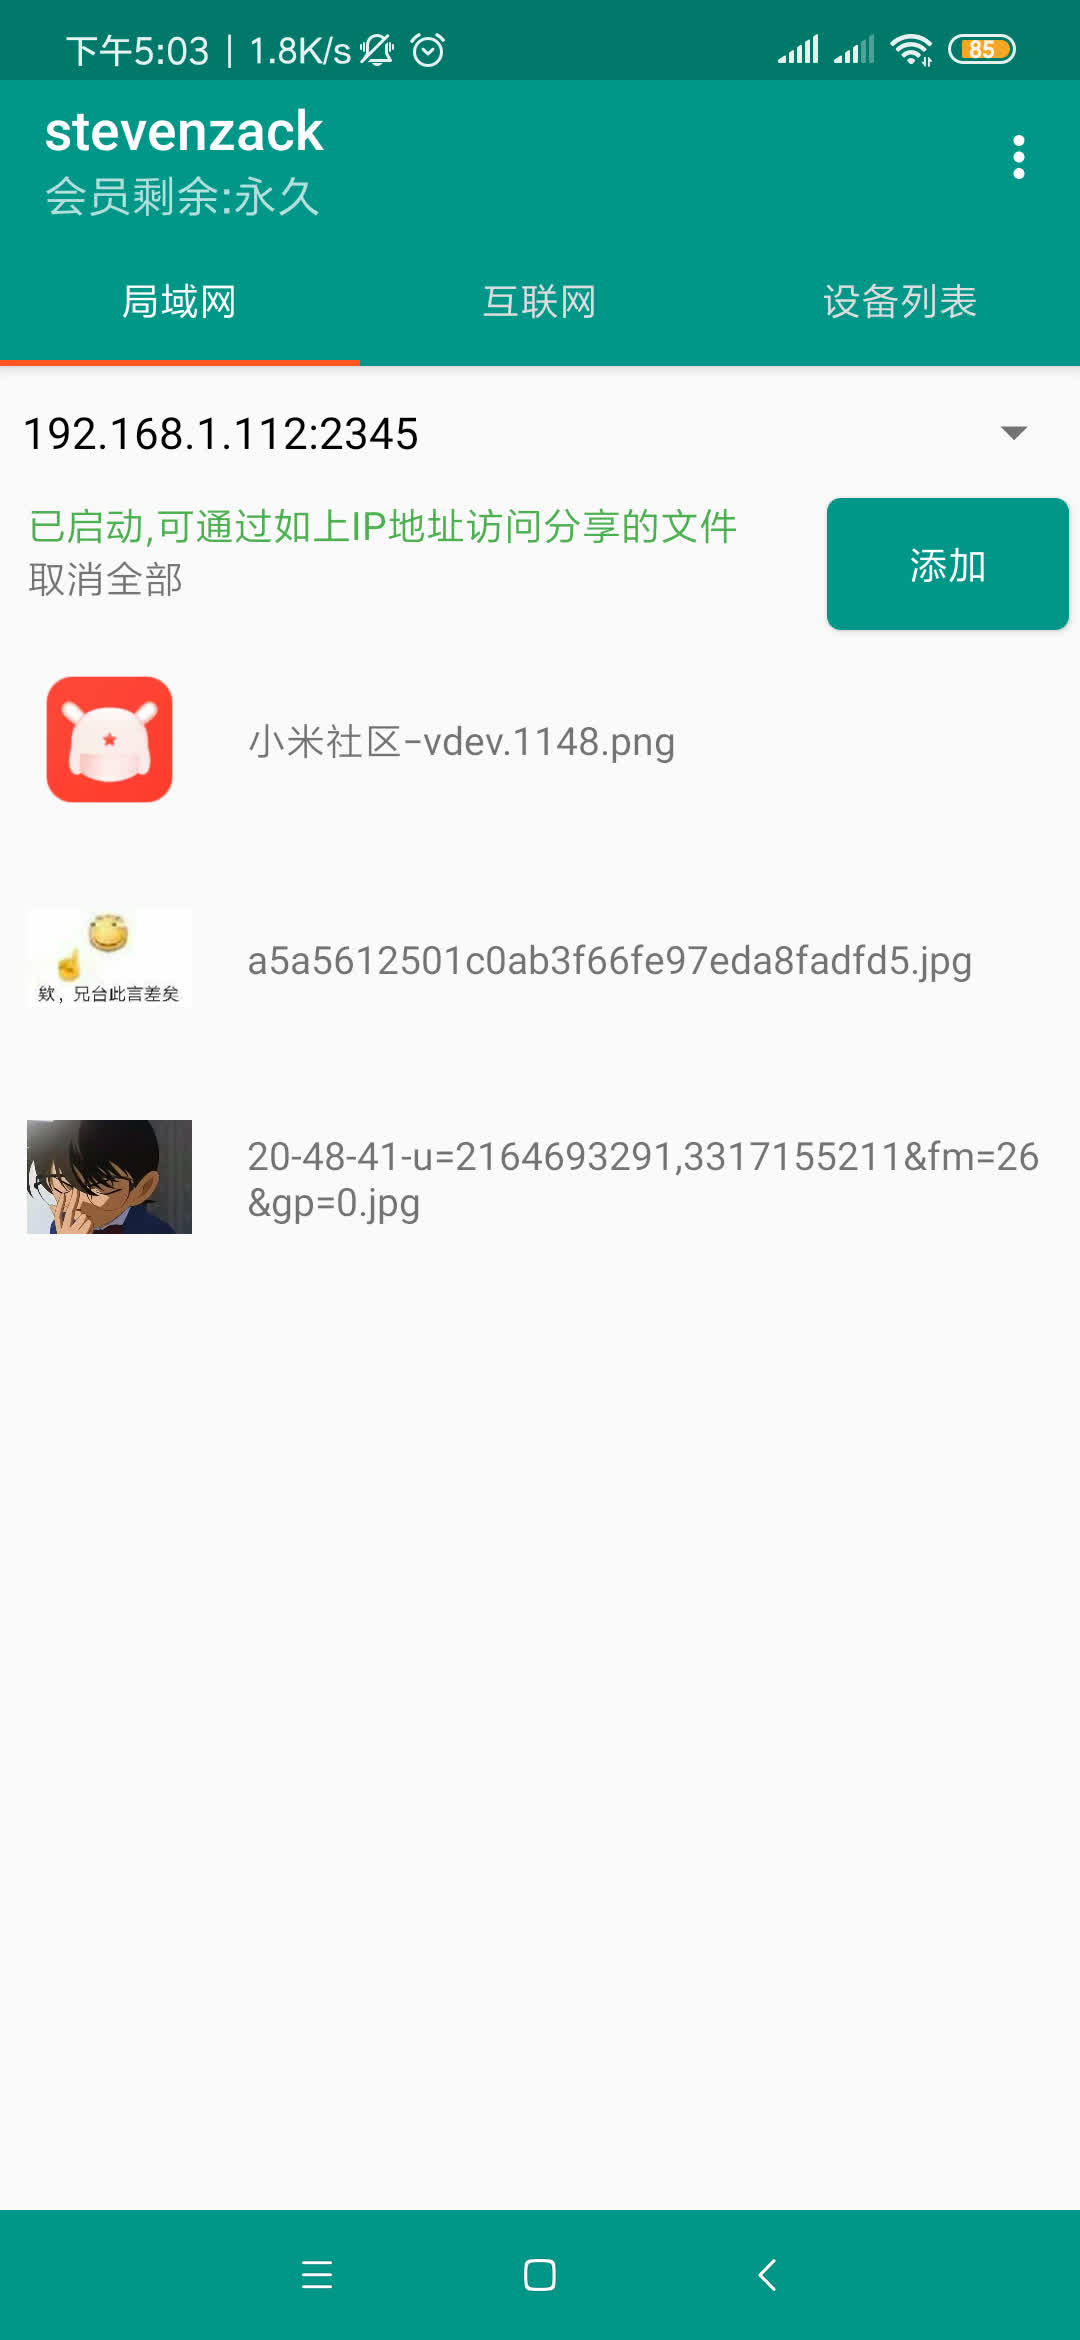
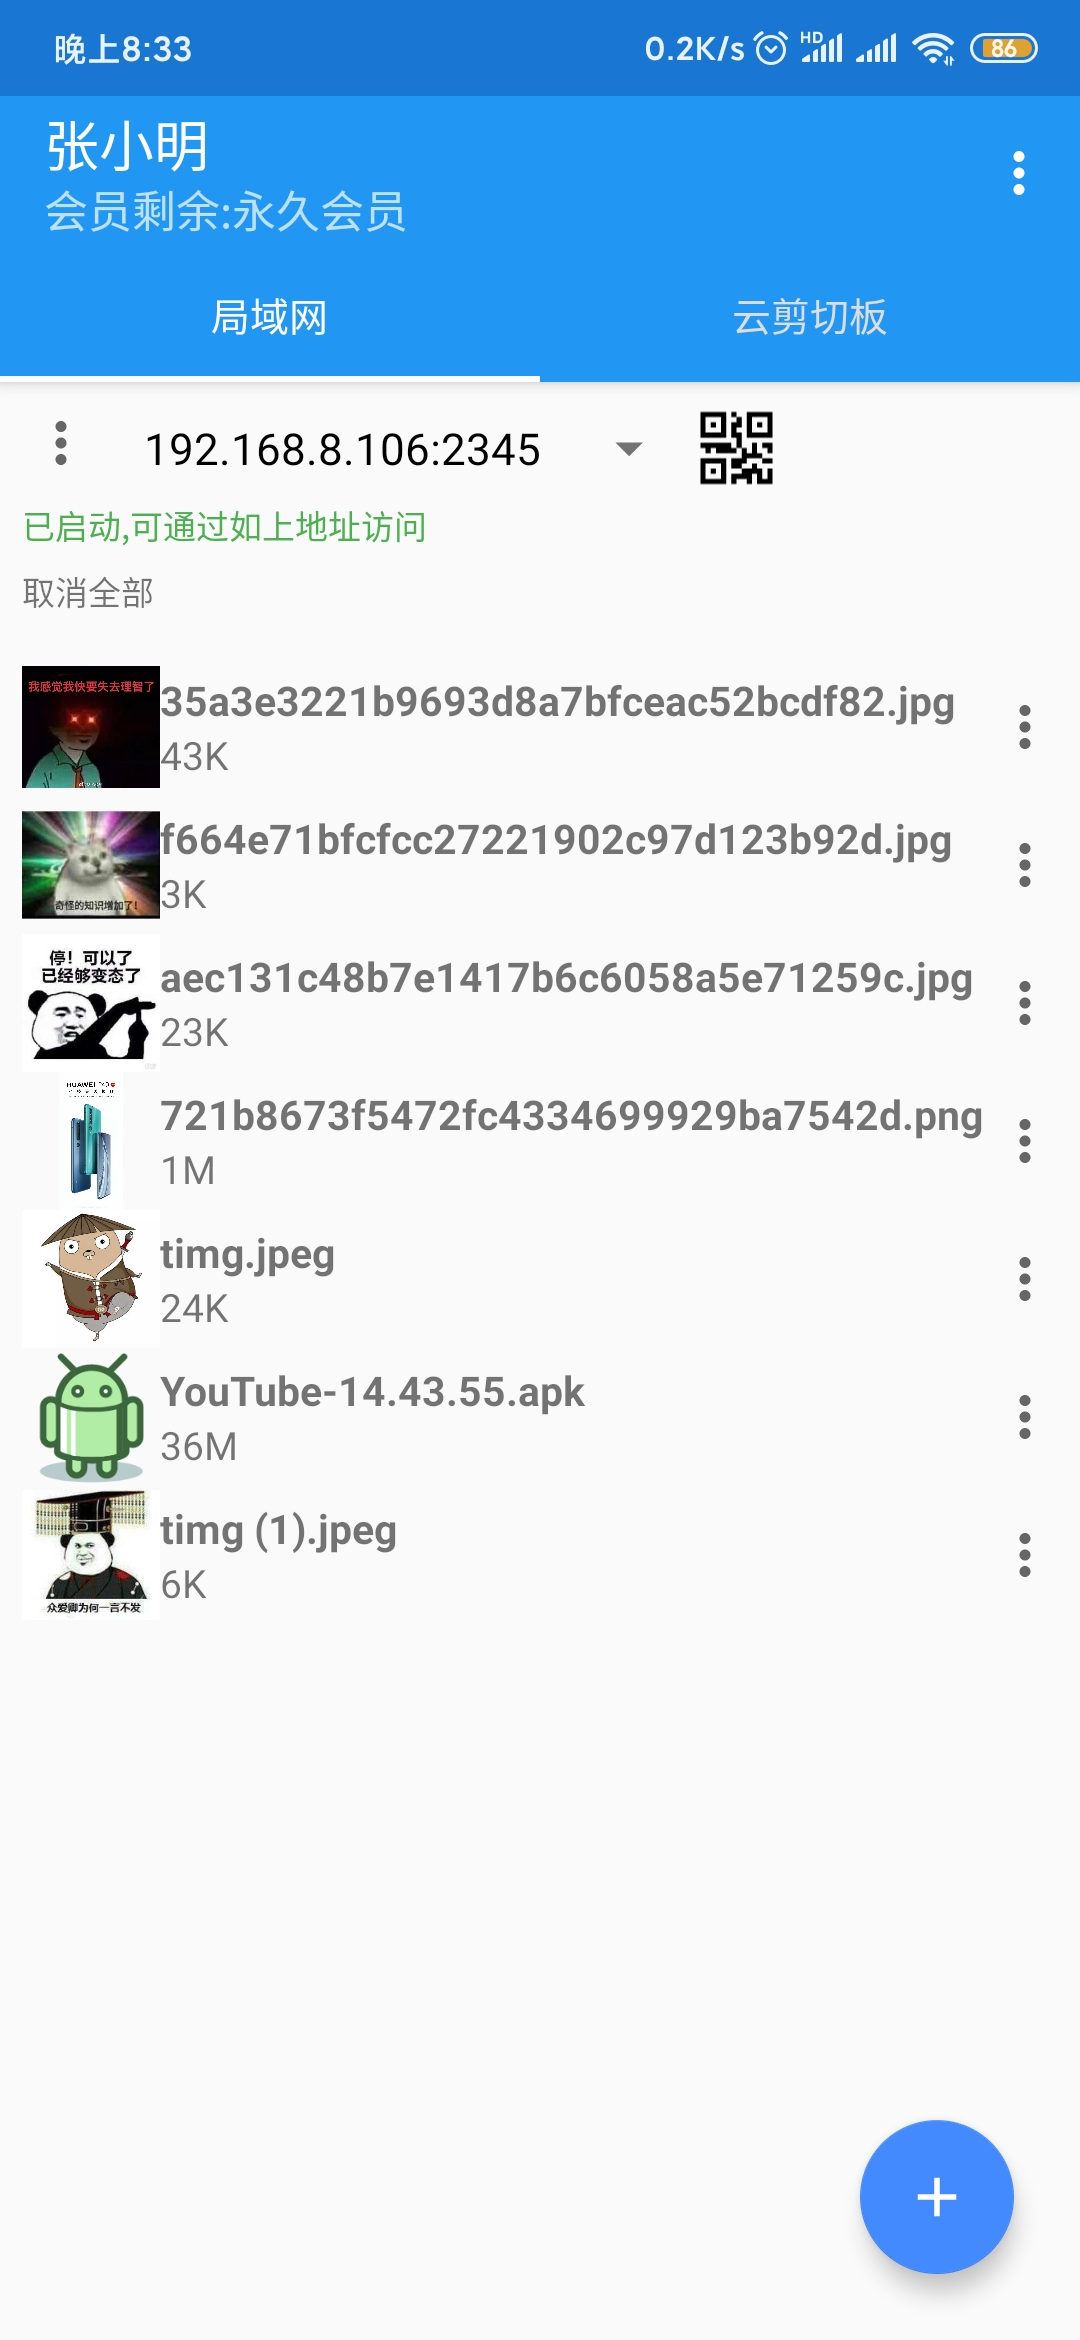
v3.1.0

diff --git a/js/vars.js b/js/vars.js
@@ -1,113 +1,7 @@
 window.server = '120.77.202.220'
 urls = {
-    android: 'http://jywjl.gitee.io/binaries/jywjl_android_v3.0.0.apk',
+    android: 'http://jywjl.gitee.io/binaries/jywjl_android_v3.1.0.apk',
     windows: 'http://jywjl.gitee.io/binaries/jywjl_windows_v2.0.0.exe',
     linux: 'http://jywjl.gitee.io/binaries/jywjl_linux_amd64_v2.0.0.tar.bz2',
     mac: 'http://jywjl.gitee.io/binaries/jywjl_mac_v2.0.0.zip',
-}
-
-version_history = {
-    windows: [
-        {
-            version: 'v2.0.0',
-            time: '--',
-            description: '',
-            url: 'https://github.com/jywjl/jywjl.github.io/releases/download/windows/jywjl_windows_v2.0.0.exe'
-        },
-        {
-            version: 'v1.0.0',
-            time: '--',
-            description: '',
-            url: 'https://github.com/jywjl/jywjl.github.io/releases/download/windows/jywjl_windows_v1.0.0.exe'
-        }
-    ],
-    android: [
-        {
-            version: 'v3.0.0',
-            time: '2020-01-30',
-            description: '1.使用Kotlin重构；2.界面主色调改为蓝色',
-            url: 'https://github.com/jywjl/jywjl.github.io/releases/download/android/jywjl_android_v3.0.0.apk'
-        },
-        {
-            version: 'v2.0.3',
-            time: '2019-10-03',
-            description: '1.新增IPv6地址支持;2.使用Go标准HTTP库;3.去掉127.0.0.1地址显示',
-            url: 'https://github.com/jywjl/jywjl.github.io/releases/download/android/jywjl_android_v2.0.3.apk'
-        },
-        {
-            version: 'v2.0.2',
-            time: '2019-09-22',
-            description: '1.修复会员剩余时间显示',
-            url: 'https://github.com/jywjl/jywjl.github.io/releases/download/android/jywjl_android_v2.0.2.apk'
-        },
-        {
-            version: 'v2.0.1',
-            time: '2019-09-07',
-            description: '1.迁移到androidx. 2.添加Android 10支持',
-            url: 'https://github.com/jywjl/jywjl.github.io/releases/download/android/jywjl_android_v2.0.1.apk'
-        },
-        {
-            version: 'v2.0.0',
-            time: '--',
-            description: '',
-            url: 'https://github.com/jywjl/jywjl.github.io/releases/download/android/jywjl_android_v2.0.0.apk'
-        },
-        {
-            version: 'v1.0.0',
-            time: '--',
-            description: '',
-            url: 'https://github.com/jywjl/jywjl.github.io/releases/download/android/jywjl_android_v1.0.0.apk'
-        }
-    ],
-    mac: [
-        {
-            version: 'v2.0.0',
-            time: '--',
-            description: '',
-            url: 'https://github.com/jywjl/jywjl.github.io/releases/download/mac/jywjl_mac_v2.0.0.zip'
-        },
-        {
-            version: 'v1.0.0',
-            time: '--',
-            description: '',
-            url: 'https://github.com/jywjl/jywjl.github.io/releases/download/mac/jywjl_mac_v1.0.0.zip'
-        }
-    ],
-    linux: [
-        {
-            version: 'v2.0.0',
-            time: '--',
-            description: '',
-            url: 'https://github.com/jywjl/jywjl.github.io/releases/download/linux/jywjl_linux_amd64_v2.0.0.tar.bz2'
-        },
-        {
-            version: 'v1.0.0',
-            time: '--',
-            description: '',
-            url: 'https://github.com/jywjl/jywjl.github.io/releases/download/linux/jywjl_linux_amd64_v1.0.0.tar.bz2'
-        }
-    ]
-}
-
-function compareVersionLeftBigger(a, b) {
-    var as = a.split('.');
-    var bs = b.split('.');
-    for (var i = 0; i < a.length; i++) {
-        var i1 = parseInt(as[i]);
-        var i2 = parseInt(bs[i]);
-        if (i1 > i2) {
-            return true;
-        }
-    }
-    return false;
-}
-
-function findLatest(versionList) {
-    var max = versionList[0];
-    for (var i = 0; i < versionList.length; i++) {
-        if (compareVersionLeftBigger(versionList[i].version, max.version)) {
-            max = versionList[i];
-        }
-    }
-    return max;
 }

diff --git a/price.html b/price.html
@@ -68,7 +68,7 @@
     <div style="display: flex;flex-direction: column;align-items: center;">
         <div
             style="margin-top: 20px;display: flex;flex-direction: column;align-items: center;max-width: 700px;width: 100%;">
-            <div id="info1" style="display: none">请先注册一个账号再充值，<a href="/download.html">立即下载客户端</a></div>
+            <div id="info1" style="display: none">请先注册一个账号再充值，<a href="download.html">立即下载客户端</a></div>
 
             <div style="display: flex;flex-direction: row;align-items: center;padding: 10px;">
                 <div class="card mcard">

diff --git a/index.html b/index.html
@@ -81,7 +81,7 @@
     <div id="app"
         style="display: flex;flex-direction: column;align-items: center;min-height: 900px;background-image: url(images/site_background.jpeg)">
         <h4 style="color: white">局域网精灵 - 专业版</h4>
-        <a href="/download.html" style="color: white;">安卓端v3.0.0发布，界面大更新，使用Kotlin</a>
+        <a href="/download.html" style="color: white;">安卓端v3.1.0发布，UI界面大更新!</a>
         <h5 style="color: white">功能强劲！ <a class="btn waves-effect waves-light" href="price.html">
                 立即购买
             </a> </h5>
